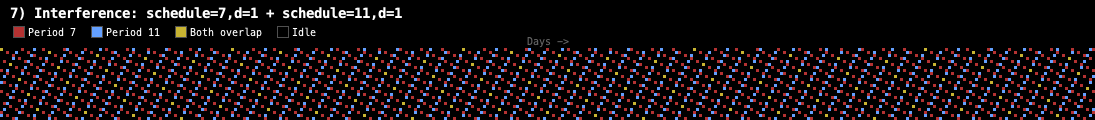
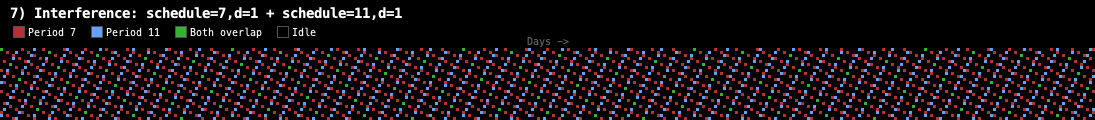
Upgrade to Java 17 + Spring Boot 3.4.3, change overlap color to green in visualization 7 (#8)
Changes:
- Update Spring Boot parent from 2.0.5.RELEASE to 3.4.3 (now Java 17+ compatible)
- Update Java version from 1.8 to 17
- Update Spring Shell starter from 2.0.1.RELEASE to 3.4.0
- Remove unused Spring Cloud and spring-milestones repository
- Change "Both overlap" color in visualization 7 from yellow RGB(200,180,50) to green RGB(50,180,50) for better contrast against light blue and red
- Regenerate visualization images with updated overlap color

Maven now compiles successfully with Java 17. No source code changes needed; Spring Shell 3.x maintains API compatibility with all used annotations.

Changed region(s): [[0.1553, 0.225, 0.1863, 0.3], [0.9936, 0.725, 1.0, 0.75]]

diff --git a/LiquiMapGenerator.java b/LiquiMapGenerator.java
@@ -316,11 +316,11 @@ public class LiquiMapGenerator {
             new Color(180, 50, 50).getRGB(),    // Red - schedule=7
             new Color(100, 160, 255).getRGB()   // Light Blue - schedule=11
         };
-        int overlap7 = new Color(200, 180, 50).getRGB(); // Yellow - both running
+        int overlap7 = new Color(50, 180, 50).getRGB(); // Green - both running
         List<ColorLegendEntry> legend7 = new ArrayList<>();
         legend7.add(new ColorLegendEntry(new Color(180, 50, 50), "Period 7"));
         legend7.add(new ColorLegendEntry(new Color(100, 160, 255), "Period 11"));
-        legend7.add(new ColorLegendEntry(new Color(200, 180, 50), "Both overlap"));
+        legend7.add(new ColorLegendEntry(new Color(50, 180, 50), "Both overlap"));
         legend7.add(new ColorLegendEntry(Color.BLACK, "Idle"));
         allImages.add(generateMultiColor(jobs7, 24, colors7, overlap7, overlap7, black,
             "7) Interference: schedule=7,d=1 + schedule=11,d=1", legend7));
